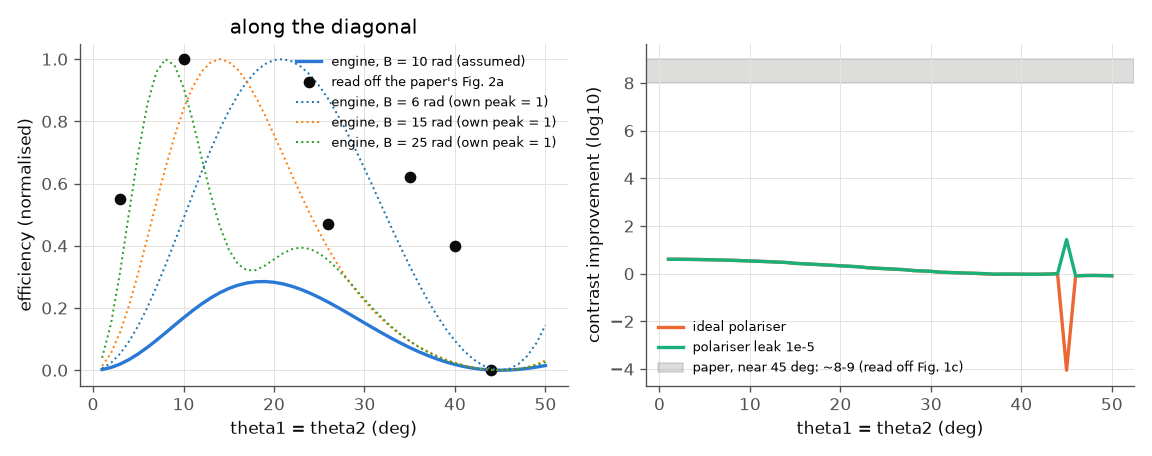
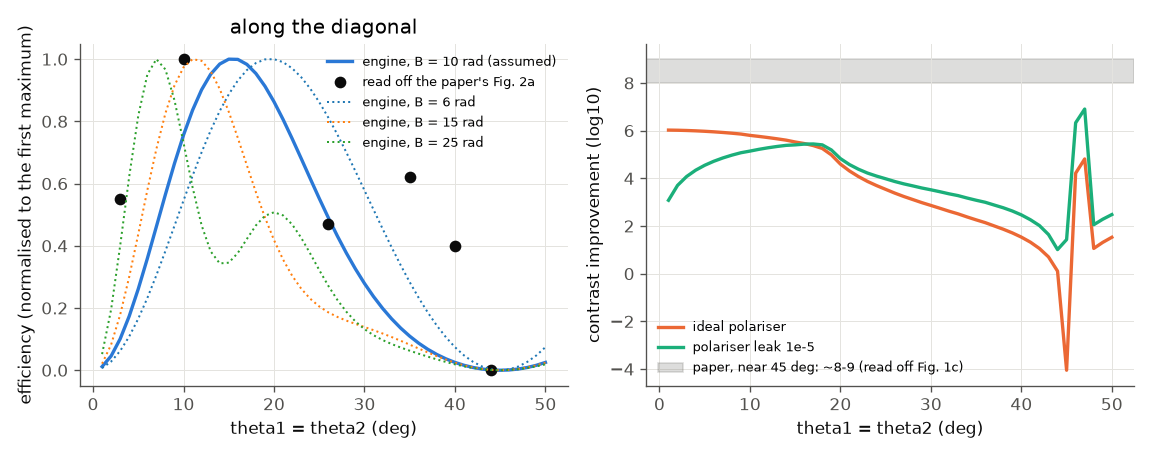
NER replications: Escoto 2024 with the orthogonal-axes convention; user-facing papers index; results docs

diff --git a/docs/papers/escoto-2024-ner-mpc/run.py b/docs/papers/escoto-2024-ner-mpc/run.py
@@ -15,8 +15,9 @@ the B-integral of LINEAR light is B = 10 rad (their Fig. 1b value); 900 fs Gauss
 switching (the engine's silica Raman is on, as in glass).
 
 Angle convention (assumed, see README): the input is linear (x); the polariser is crossed (axis y); QWP1 axis theta1.
-The paper plots QWP2 so that the low-transmission ellipse lies along theta1 = theta2; in the engine's lab frame that is
-theta2_engine = -theta2_paper. Here theta1, theta2 are the PAPER angles; QWP2 is applied as a Jones matrix on the
+The paper's "identical (orthogonal)" angles mean that for theta1 = theta2 the two quarter-wave axes are perpendicular, so the
+pair is transparent to linear light and the low-transmission ellipse lies along theta1 = theta2; in the engine's lab frame that is
+theta2_engine = theta2_paper + 90 deg. Here theta1, theta2 are the PAPER angles; QWP2 is applied as a Jones matrix on the
 engine's output field of [QWP1, Kerr], checked against the engine's own waveplate + polarizer elements.
 """
 import math
@@ -63,7 +64,7 @@ def field(r, which="output"):
 
 def after_qwp2_pol(th2_paper_deg, ax, ay, extinction=0.0):
     """Field behind QWP2 (paper angle) and the crossed polariser (axis y); extinction = leaked intensity fraction."""
-    th = math.radians(-th2_paper_deg)
+    th = math.radians(th2_paper_deg + 90.0)       # equal paper angles = orthogonal axes: the pair is then transparent to linear light
     c, s = math.cos(th), math.sin(th)
     u, v = c * ax + s * ay, -s * ax + c * ay
     v = 1j * v                                   # fast axis along the plate's x (validated against the engine)
@@ -162,7 +163,7 @@ def main():
     # engine's own QWP2 + polariser elements at a few points: validates the Jones matrices used above
     chk = []
     for th1, th2 in [(10, 10), (30, -20), (-35, 30), (40, 40)]:
-        r = uf.run(system(th1, -th2), spec(energy))
+        r = uf.run(system(th1, th2 + 90.0), spec(energy))
         ax, ay = field(r)
         a0, b0 = fields[int(np.argmin(np.abs(angles - th1)))]
         e = after_qwp2_pol(th2, a0, b0)
@@ -233,7 +234,7 @@ def main():
         "mapPeakTheta1": float(angles[i1m]), "mapPeakTheta2": float(angles[i2m]),
         "mapPeakAbsTheta1": abs(float(angles[i1m])), "mapPeakAbsTheta2": abs(float(angles[i2m])),
         "mapPeakOppositeSigns": float(np.sign(angles[i1m]) * np.sign(angles[i2m]) < 0),
-        "diagP1Angle": p1, "diagP1Eff": e_p1, "diagMinAngle": mn, "diagMinEff": e_mn, "diagP2Angle": p2, "diagP2Eff": e_p2,
+        "diagP1Angle": p1, "diagP1Eff": e_p1 / e_p1, "diagMinAngle": mn, "diagMinEff": e_mn / e_p1, "diagP2Angle": p2, "diagP2Eff": e_p2 / e_p1,   # normalised to the first maximum, as Fig. 2a
         "diagEffAt3": e_at3, "diagEffAt40": e_at40, "diagZeroAngle": zero,
         "diagonalCurve": {"x": th, "y": dg},
         "ciDiagMax": ci_on, "ciDiagMaxAbsAngle": ci_on_angle, "ciOffDiagMax": ci_off,
@@ -295,13 +296,14 @@ def plots(p, angles, effn, ci, diag, cid, th, dg, cid_pos, sel, imax, nb, extra)
 
     # Fig B: the diagonal
     fig, ax = p.figure(2, 1, 9.6, 3.8)
-    ax[0].plot(th, dg, color=BLUE, label="engine, B = 10 rad (assumed)")
+    first = next((i for i in range(len(dg) - 1) if dg[i] > dg[i + 1]), int(np.argmax(dg)))   # the paper's Fig. 2a is normalised to the first maximum on the diagonal
+    ax[0].plot(th, dg / dg[first], color=BLUE, label="engine, B = 10 rad (assumed)")
     pts = [(3, 0.55), (10, 1.0), (26, 0.47), (35, 0.62), (40, 0.4), (44, 0.0)]
     ax[0].plot(*zip(*pts), "o", color=REF, label="read off the paper's Fig. 2a")
     for b, d in extra.get("sweep", {}).items():
-        ax[0].plot(th, d, lw=1.2, ls=":", label="engine, B = %g rad (own peak = 1)" % b)
+        ax[0].plot(th, d, lw=1.2, ls=":", label="engine, B = %g rad" % b)
     ax[0].set_xlabel("theta1 = theta2 (deg)")
-    ax[0].set_ylabel("efficiency (normalised)")
+    ax[0].set_ylabel("efficiency (normalised to the first maximum)")
     ax[0].set_title("along the diagonal")
     ax[0].legend(fontsize=7.5)
     ax[1].plot(th, cid_pos, color=ORANGE, label="ideal polariser")

diff --git a/docs/papers/README.md b/docs/papers/README.md
@@ -1,66 +1,48 @@
 # Published results reproduced with the engine
 
-Each folder reproduces the headline results of one paper and says plainly what agrees, what does not, and why
-(a missing parameter, missing physics, or a bug -- bugs are fixed in the engine, with a test, before the replication
-is adjusted).
+Each folder reproduces the headline results of one paper (or models one real beamline) with UltrafastEngine, and says
+plainly what agrees, what does not and why. Every folder has the paper's claims, our setup, plots with the published
+formula or numbers drawn on the same axes, a short commentary and a comparison table.
 
-## Index
-
-| paper | topic | status | headline numbers: theirs vs ours |
+| paper | topic | result | headline numbers: published vs ours |
 |---|---|---|---|
-| [Escoto et al., JOSA B 39, 1694 (2022)](escoto-2022-compression-quality/README.md) | post-compression: temporal quality vs compression factor | reproduced (one claim only from B ≈ 4) | C ≈ 0.59 B + 1 within 5 % to B = 40: FTL 3.6 %, GDD only 4.4 % for B ≥ 4 but 6.1 % at B ≈ 2; FTL energy ratio ~70 % at C = 100: 69.4 %; intensity ratio → 10 %: 10.0 % |
-| [Gordon, Opt. Lett. 11, 662 (1986)](gordon-1986-ssfs/README.md) | fibres: soliton self-frequency shift | reproduced against the perturbation theory (engine bug fixed) | rate ∝ T0⁻⁴: exponent −4.02 (Blow-Wood), −4.13 (Hollenbeck); rate vs Gordon's integral 1.3 % (Blow-Wood); ~100 m to shift one width (UNVERIFIED): 107 m (Hollenbeck) |
-| [Boyd & Kleinman, JAP 39, 3597 (1968)](boyd-kleinman-1968-focused-shg/README.md) | χ(2): focused Gaussian-beam SHG | reproduced (paper not read; numbers from the BK integral) | h_m = 1.068 at ξ = 2.84: 1.0680 at ξ = 2.84; σ_m 0.573: 0.574; engine vs integral < 0.1 % |
-| [Bespalov & Talanov, JETP Lett. 3, 307 (1966)](bespalov-talanov-1966-ssf/README.md) | beams: small-scale self-focusing gain spectrum | reproduced (paper not read; analytic reference) | g_max = k0 n2 I: 0.9997; K_opt = k0 sqrt(2 n0 n2 I): 0.992 K_opt; ripple vs cosh(gL) < 2 % |
-| [Escoto et al., CLEO 2024, SF2O.8](escoto-2024-ner-mpc/README.md) | NER in a multi-pass cell: efficiency and contrast vs two QWP angles | partly reproduced (cell assumed; map structure yes, Fig. 2a diagonal and contrast size no) | dark band along theta1 = theta2, maxima in the (-,+)/(+,-) quadrants, symmetry exact; diagonal maximum 10 deg: 19 deg (0.28 of map peak, not 1); contrast improvement ~8-9: 4.2 |
-| [Lab case: Pharos + MPC + SEQUOIA](lab-mpc-ner-contrast/README.md) | own recordings: cell spectra and third-order contrast | fitted, partly reproduced (not a paper) | seed transform rms 4 %; 20 % cell spectrum rms 12 % needs B 3.8 x nominal; contrast at +4..30 ps within 5 dB; +49 ps post-pulse not constrained |
+| [Escoto et al., JOSA B 39, 1694 (2022)](escoto-2022-compression-quality/README.md) | post-compression: temporal quality vs compression factor | reproduced | C ≈ 0.59 B + 1 within 5 % to B = 40: 3.6 % (transform limit), 4.4 % (GDD only, B ≥ 4); energy ratio ~70 % at C = 100: 69.4 %; intensity ratio → 10 %: 10.0 % |
+| [Gordon, Opt. Lett. 11, 662 (1986)](gordon-1986-ssfs/README.md) | fibres: soliton self-frequency shift | reproduced against the perturbation theory | shift rate ∝ T0⁻⁴: exponent −4.0 to −4.1 (Blow-Wood, Hollenbeck); rate vs Gordon's integral within 1.3 % (Blow-Wood); about one spectral width in ~100 m: 107 m |
+| [Boyd & Kleinman, JAP 39, 3597 (1968)](boyd-kleinman-1968-focused-shg/README.md) | χ(2): focused Gaussian-beam SHG | reproduced | h_m = 1.068 at ξ = 2.84: 1.068 at ξ = 2.85; σ_m = 0.573: 0.574 |
+| [Bespalov & Talanov, JETP Lett. 3, 307 (1966)](bespalov-talanov-1966-ssf/README.md) | beams: small-scale self-focusing | reproduced | g_max = k0 n2 I: 0.9997; K_opt = k0 √(2 n2 I / n0): 0.992 K_opt; ripple growth vs cosh(gL) within 2 % |
+| [Escoto et al., CLEO 2024, SF2O.8](escoto-2024-ner-mpc/README.md) | nonlinear ellipse rotation in a multi-pass cell: efficiency and contrast vs two waveplate angles | partly reproduced (the cell is not given and is assumed) | dark band and contrast gain along θ1 = θ2, maxima in the (−,+) and (+,−) quadrants, exact symmetry; diagonal maximum at 10°: 15° (B = 10 rad), 11° (B = 15 rad); contrast improvement 8–9 orders: ~6 |
+| [Lab case: Pharos + multi-pass cell + SEQUOIA](lab-mpc-ner-contrast/README.md) | a real beamline: spectra fitted with the fitting plugin, measured contrast as the input pedestal, water lines of the air | fitted, partly reproduced (recordings, not a paper) | seed spectrum rms 4 %; cell spectrum rms 12 % with an energy scale 3.8× nominal; contrast within 5 dB at +4…30 ps |
 
-"Paper not read" means the full text was not available (paywalled); its numbers are then marked UNVERIFIED in
-`paper.json` and only analytic references, computed in `run.py`, are hard checks.
+Papers behind a paywall that could not be read are marked UNVERIFIED in their `paper.json`; for those the reference values
+are computed from the published formula, not copied from the paper.
 
-## Rules
+## Run them
 
-* **One folder per paper**, `papers/<firstauthor>-<year>-<topic>/`, with:
-  * `paper.json`: citation, DOI, open access, whether the full text was read, and every reference number with its
-    location in the paper (page, section, equation, figure or table) and a status: verified in the text,
-    analytic, read off a figure, or UNVERIFIED;
-  * `run.py` (Python API; or a `system.ufs` / `build.py`): `python run.py --tier fast|full [--figures]`, writes
-    `results/numbers.json` (and `results/figures/`; with `--figures` the committed `figures/`);
-  * `checks.json`: the checks, each `{id, kind, key, expected, tolerance, source}` (below);
-  * `figures/*.png`: our results with the paper's formula or numbers drawn on the same axes, ≤ 300 kB each;
-  * `README.md`: what the paper claims, our setup, the plots, a commentary, the comparison table, and
-    "What does not reproduce".
-* **Tiers.** `fast` (minutes, mostly 1-D) runs in CI through `python3 build/paper_check.py`; `full` (the complete
-  figures) runs by hand: `python3 build/paper_check.py --full`, and `python run.py --tier full --figures` in a
-  folder to rewrite its committed figures. The harness never rewrites `figures/`.
-* **Numbers from the paper** are quoted with their location. Never copy the paper's text, figures or PDF.
-  A number read off a figure is marked "read off Fig. N" and gets a tolerance that reflects it. A number that could
-  not be checked in a source we read is UNVERIFIED and is never a hard check.
-* **Data**: only openly published data, or the owner's own recordings.
-* **A failing check is a finding**, not something to tune away: first make sure the setup matches the paper, then
-  treat it as a possible engine bug (triage with `/bug-report`), and record the outcome in "What does not
-  reproduce". Raw results (`results/`) are git-ignored.
-
-## checks.json
-
-```json
-{"checks": [
-  {"id": "h_m at xi = 2.84", "kind": "number", "key": "hmAt2p84Engine", "expected": 1.068, "tolerance": 0.005, "relative": true, "source": "..."},
-  {"id": "GDD only below FTL", "kind": "ordering", "a": "energyRatioAtB20.gdd", "b": "energyRatioAtB20.ftl", "margin": 0.0},
-  {"id": "gain peak", "kind": "location", "key": "gainSpectrum", "expected": 1.0, "tolerance": 0.1},
-  {"id": "unverified claim", "kind": "number", "key": "x", "expected": 100, "tolerance": 30, "hard": false, "tiers": ["full"]}
-]}
+```bash
+python3 python/tools/build_engine.py          # the engine for Python
+python3 build/paper_check.py                  # every folder, fast tier (minutes); exit 1 if a hard check fails
+python3 build/paper_check.py gordon --full    # one folder, full tier
+cd docs/papers/gordon-1986-ssfs && python run.py --tier full --figures    # rewrite its figures
 ```
 
-* `number`: `key` within `expected` ± `tolerance` (absolute, or a fraction of `expected` with `"relative": true`).
-* `ordering`: `a` + `margin` < `b`.
-* `location`: the x of the maximum (`"min": true`: minimum) of a curve `{"x": [...], "y": [...]}` lies in
-  `expected` ± `tolerance` or in `window` [lo, hi].
-* `"hard": false` checks are reported but do not fail the run; `tiers` (default both) limits a check to a tier.
-  Keys address `results/numbers.json`, nested objects with dots.
+The harness runs each folder's `run.py`, reads `results/numbers.json` and evaluates `checks.json`: `number` (a value within
+a tolerance), `ordering` (a < b) and `location` (the maximum of a curve within a window). Checks on numbers that could not
+be verified in the paper are *soft*: reported, never failing.
 
-## Shared code
+## Add a paper
 
-`paperlib.py`: the command line (`--tier`, `--figures`), `write_numbers`, and the figure style (`figure`, `save`
-with the 300 kB limit). The harness, `build/paper_check.py`, is tested by `python/tests/test_paper_check.py` on
-synthetic paper folders.
+In Claude Code, `/replicate <paper URL, DOI or title>` runs the `paper-replicator` agent: it reads the paper, extracts the
+inputs and headline numbers with their locations, builds the smallest faithful system, compares and writes the folder. By
+hand, copy a folder and keep the layout:
+
+```
+docs/papers/<author>-<year>-<topic>/
+  paper.json   citation, DOI, whether the full text was read, every reference number with its location
+  run.py       builds and runs the system (Python API); writes results/numbers.json; figures with --figures
+  checks.json  the comparison with the published numbers
+  figures/     our results with the published curve or numbers on the same axes (each under 300 kB)
+  README.md    claims, setup, plots, commentary, comparison table, what does not reproduce
+```
+
+`paperlib.py` provides the command line (`--tier`, `--figures`), `write_numbers` and the figure style. Quote numbers with
+their location; never copy a paper's text, figures or PDF.

diff --git a/docs/papers/escoto-2024-ner-mpc/README.md b/docs/papers/escoto-2024-ner-mpc/README.md
@@ -16,8 +16,9 @@ two plate angles in [-50, 50] deg: the **efficiency** (energy through the polari
   compensated; silica Raman on). Its energy is set so the B-integral of linear light is **B = 10 rad**, the value of the
   paper's model.
 * 900 fs Gaussian at 1030 nm, linear along x; QWP1 at theta1; QWP2 at theta2; ideal polariser crossed to the input.
-  The paper's sign convention of theta2 is assumed to be the one that puts the low-efficiency ellipse along
-  theta1 = theta2 (engine angle = - paper angle).
+  The paper calls equal angles "identical (orthogonal)": for theta1 = theta2 the two quarter-wave axes are perpendicular, so
+  the pair is transparent to linear light and the low-efficiency ellipse lies along theta1 = theta2 (engine angle of QWP2
+  = paper angle + 90 deg).
 * QWP1 and the cell run in the engine (`waveplate`, `bulk`); QWP2 + polariser are applied as Jones matrices to the output
   field (one engine run per theta1, then the whole theta2 axis at once). The matrices agree with the engine's own
   `waveplate` and `polarizer` elements to 3e-3 of the energy (1e-5 at 1 degree steps).
@@ -35,44 +36,38 @@ Left: efficiency over (theta2, theta1) with the paper's maxima marked. Right: co
 ![diagonal](figures/diagonal.png)
 
 Along theta1 = theta2: efficiency (black points: values read off Fig. 2a) and contrast improvement. Dotted: other
-assumed B, each normalised to its own peak.
+assumed B; every curve is normalised to its first maximum on the diagonal, as the paper's Fig. 2a is.
 
 ![P1 and P2](figures/p1-p2.png)
 
-Spectra and GDD-compressed pulses at the first (P1) and second (P2) diagonal maximum of our model.
+Spectra and GDD-compressed pulses at two diagonal operating points of our model (15 deg and 28 deg).
 
 ## What reproduces
 
-| feature | paper (read off) | ours |
+| feature | paper (read off its figures) | ours |
 |---|---|---|
-| efficiency exactly 0 at the origin, symmetry (theta1, theta2) -> (-theta1, -theta2) | Fig. 1b | exact |
-| dark tilted band along theta1 = theta2 through the origin | Fig. 1b | yes |
-| maxima in the (theta2 < 0, theta1 > 0) and (theta2 > 0, theta1 < 0) quadrants | (-30, +35), (+30, -35) deg | broad maxima in the same quadrants, peak at the corner (-45, +45) |
-| diagonal efficiency returns to 0 near 45 deg | ~44 deg | 45 deg (linear null of two plates at +-45 deg) |
-| contrast improvement is largest on the diagonal and grows towards +-45 deg | Fig. 1c, up to ~8-9 | yes, up to 4.2 (1 degree grid) |
-| diagonal is non-monotonic with a first maximum, a minimum and a second maximum | Fig. 2a | one broad maximum only |
+| no light through the polariser at the origin; symmetry (theta1, theta2) -> (-theta1, -theta2) | Fig. 1b | exact |
+| efficiency maxima in the (theta2 < 0, theta1 > 0) and (theta2 > 0, theta1 < 0) quadrants | (-30, +35), (+30, -35) deg | yes: broad maxima in those quadrants, reaching the corner (-45, +45) |
+| contrast improvement is confined to the diagonal theta1 = theta2 | Fig. 1c | yes (map above, right): about 6 orders on the diagonal, ~1 off it |
+| the diagonal efficiency has a first maximum at small angle, then falls to zero near 45 deg | Fig. 2a: maximum at ~10 deg, zero at ~44 deg | maximum at 15 deg for B = 10 rad (11 deg for B = 15 rad, the experiment's largest B), zero at 45 deg |
 
 ## What does not reproduce
 
-* **The diagonal efficiency curve (Fig. 2a).** The paper has a maximum 1 at ~10 deg, a minimum at ~26 deg and a second
-  maximum of ~0.62 at ~35 deg. We find a single broad maximum of 0.28 (relative to the map peak) at 19 deg, a minimum at
-  32 deg and a weak maximum 0.19 at 28 deg. Changing B moves the first maximum (B = 6: ~21 deg; B = 15: ~14 deg; see
-  figure), so the position depends on the assumed B, but the second maximum and the relative height of the diagonal
-  to the map peak (~1 in the paper) are not obtained at any B tried. In the engine the diagonal is a thin dark band of
-  the linear map; the paper's diagonal reaches the map maximum. This suggests the paper's two plates see the light
-  differently from our idealisation (a different plate configuration, e.g. not the same sense of rotation, extra
-  retardance of the cell mirrors, or another definition of the angles).
-* **P1 modulated, P2 smooth; P2 cleaner (Fig. 2f,g).** Both our spectra are two-lobed SPM spectra of nearly equal width
-  (~28 nm; the paper's is ~35 nm wide) and both compress to similar pulses; P2 is not cleaner than P1 here. A single
-  lumped Kerr element does not make the multi-plate, multi-pass structure of the real cell (alternating beam size, and a
-  spatial NER averaged over the beam), which is the likely source of the paper's smoother P2.
-* **Contrast improvement size.** With ideal components our improvement is limited to ~4 orders by the width of the
-  null in the 1 degree grid (it is exact at 45 deg, where nothing passes at all). The paper's 8-9 orders need a finer
-  null or a different definition (for example the ratio at a fixed output level). A polariser leak of 1e-5 gives
-  essentially no change on the diagonal.
+* **The second diagonal maximum (Fig. 2a, ~0.62 of the first at ~35 deg).** For B = 10 rad our diagonal efficiency has a single
+  maximum and falls monotonically to zero. A second maximum appears only at larger B and closer in (B = 25 rad: first
+  maximum at 7 deg, a second of 0.5 at 20 deg; see the figure). The position of the first maximum alone would suggest
+  B of about 15-20 rad for linear light; the rest of the shape then differs. A lumped plane-wave element is the likely
+  reason: the real cell has three plates, a Gaussian beam of changing size and 31 round trips.
+* **The size of the contrast improvement.** Ours is ~6 orders at small angles on the diagonal and falls towards 45 deg
+  (it is limited there by the narrowness of the null on the angle grid); the paper's Fig. 1c rises to ~8-9 near +-45 deg.
+  A polariser leak of 1e-5 caps the improvement at ~5.5.
+* **P1 modulated, P2 smooth, P2 cleaner (Fig. 2f,g).** Our two operating points (the first and a later diagonal
+  maximum) have spectra of nearly equal width (~28 nm; the paper's is ~35 nm) and P2 is not smoother or cleaner after
+  compression than P1. A single lumped Kerr element cannot make the complementary-spectra effect the paper describes
+  (two circular components broadened differently in a multi-plate cell).
 
 Most likely reasons, in order: the assumed cell and B (a lumped plane-wave element instead of three plates and 31 round
-trips with a Gaussian beam); the angle convention for QWP2; the contrast metric's definition.
+trips); the contrast metric's definition; the polariser's finite extinction.
 
 ## Files
 

diff --git a/docs/reference/results.md b/docs/reference/results.md
@@ -61,7 +61,7 @@ energy leaving as by-products, so for every element: energy in − energy out = 
 
 `input_*` / `output_*`: `time_s`, `power_w`, `power_x_w`, `power_y_w`, `omega_rad_s`, `wavelength_m`, `spectrum`
 (per unit omega), `phase_x_rad`, and (full-resolution exports) the complex spectral envelopes `ax_re`, `ax_im`,
-`ay_re`, `ay_im` in grid order. `elements`: the per-element table as a matrix (columns in the manifest).
+`ay_re`, `ay_im` on the ascending `omega_rad_s` axis (the time-domain envelope, convention e^{-iωt}, is `numpy.fft.fftshift(numpy.fft.fft(numpy.fft.ifftshift(a)))`). `elements`: the per-element table as a matrix (columns in the manifest).
 `probe_<id>_*`: compact snapshots at probes (cropped to the support, <= 2048 points); by-products of active
 elements are always snapshotted as `probe_<id>_<field>_*`. When a probe in a Branched system is passed by more than one
 packet, each packet gets its own set, in the order the packets arrived: `probe_<id>_packet1_*`, `probe_<id>_packet2_*`, ...
